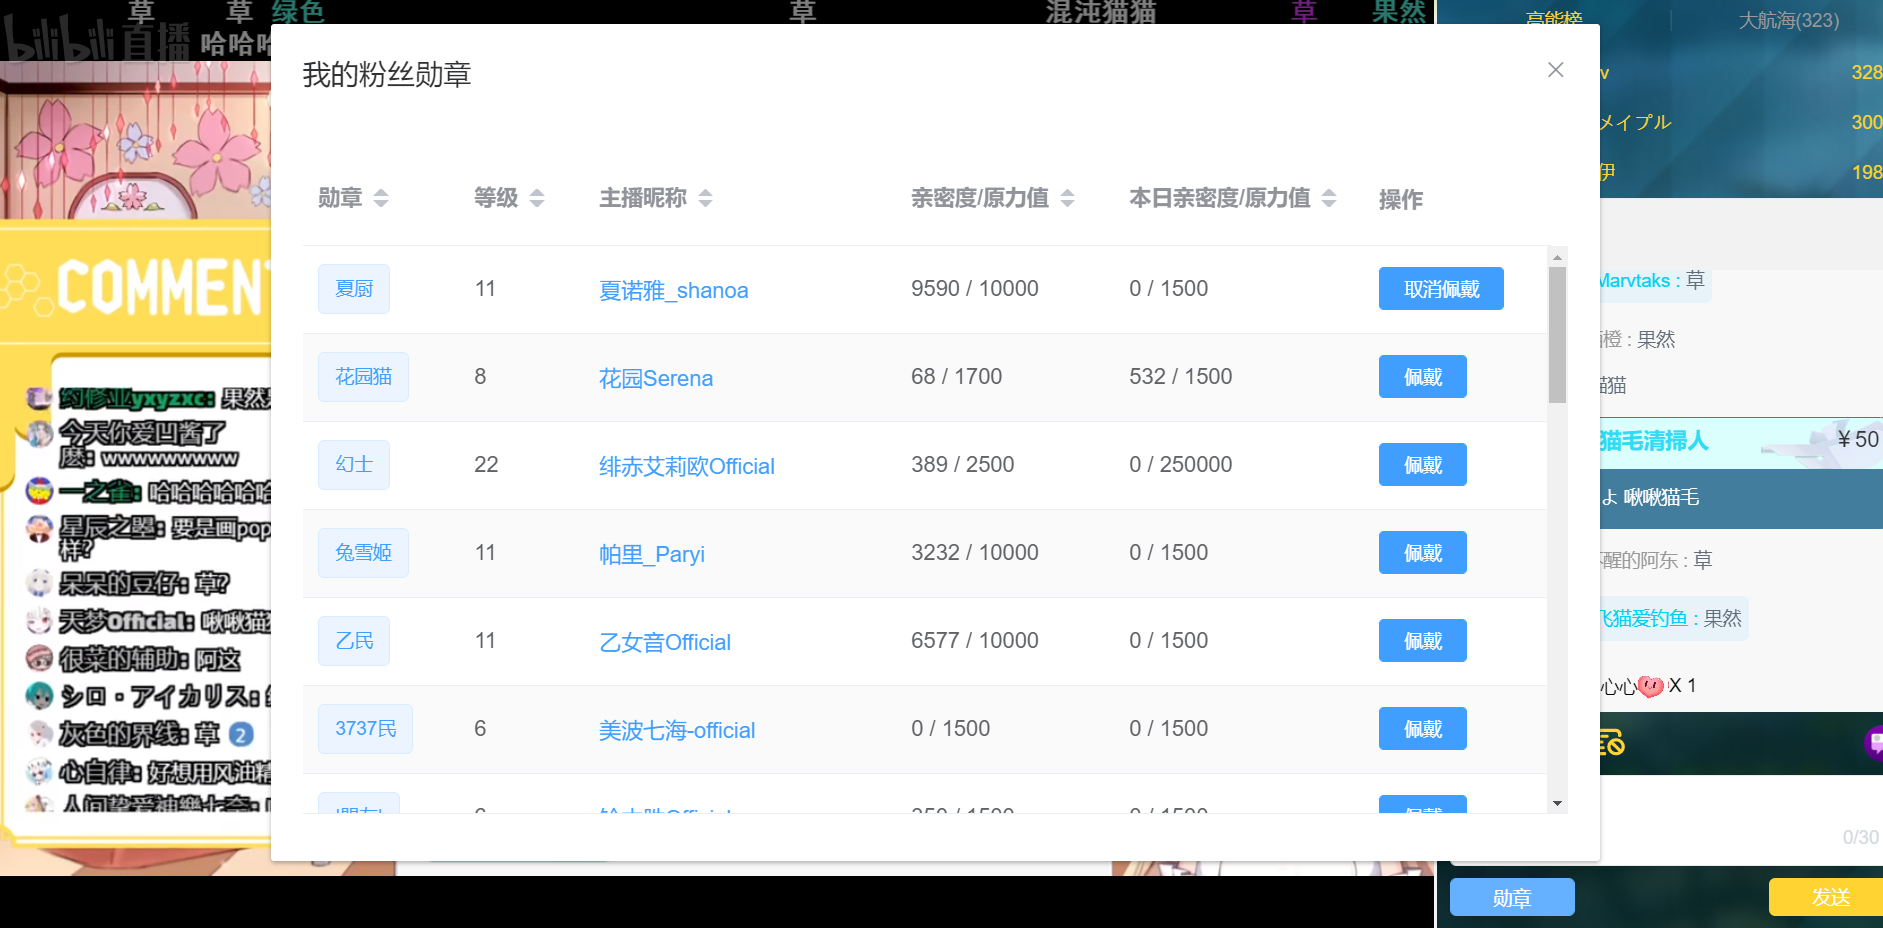
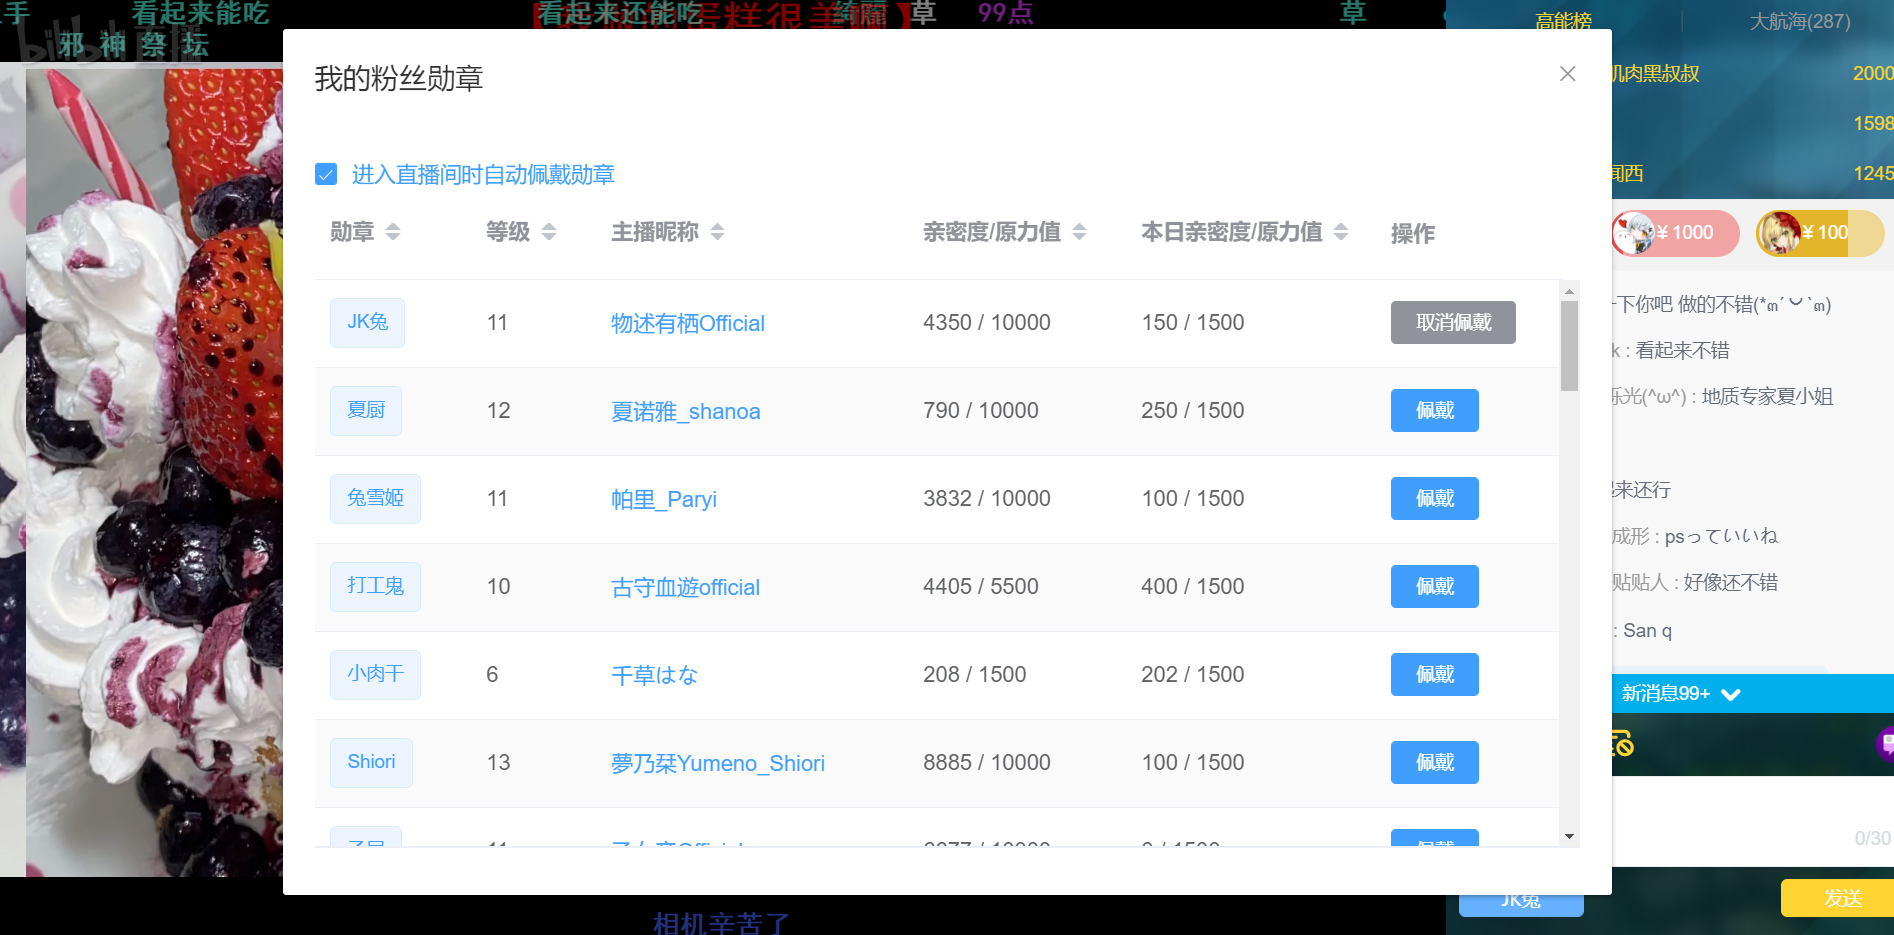
添加自动换牌子

diff --git a/blivemedal.user.js b/blivemedal.user.js
@@ -1,7 +1,7 @@
 // ==UserScript==
 // @name         blivemedal
 // @namespace    http://tampermonkey.net/
-// @version      0.2
+// @version      0.3
 // @description  拯救B站直播换牌子的用户体验
 // @author       xfgryujk
 // @include      /https?:\/\/live\.bilibili\.com\/?\??.*/
@@ -85,6 +85,8 @@
     if (store === null) {
       store = new Vuex.Store({
         state: {
+          config: loadConfig(),
+
           medals: [],
           curMedal: null
         },
@@ -94,6 +96,12 @@
           },
           setCurMedal(state, curMedal) {
             state.curMedal = curMedal
+          },
+          setConfigItems(state, config) {
+            for (let name in config) {
+              state.config[name] = config[name]
+            }
+            saveConfig(state.config)
           }
         },
         actions: {
@@ -107,6 +115,24 @@
       })
     }
     return store
+  }
+
+  function loadConfig() {
+    let config
+    try {
+      config = JSON.parse(window.localStorage.blivemedalConfig || '{}')
+    } catch {
+      config = {}
+    }
+
+    if (config.autoWearMedal === undefined) {
+      config.autoWearMedal = false
+    }
+    return config
+  }
+
+  function saveConfig(config) {
+    window.localStorage.blivemedalConfig = JSON.stringify(config)
   }
 
   function initUi() {
@@ -132,16 +158,29 @@
       `,
       computed: {
         ...Vuex.mapState({
+          config: state => state.config,
           curMedal: state => state.curMedal
         })
       },
-      created() {
+      async created() {
+        await this.tryAutoWearMedal()
         this.updateCurMedal()
       },
       methods: {
         ...Vuex.mapActions([
           'updateCurMedal'
         ]),
+        async tryAutoWearMedal() {
+          try {
+            if (this.config.autoWearMedal) {
+              let medalInfo = window.__NEPTUNE_IS_MY_WAIFU__.roomInfoRes.data.anchor_info.medal_info
+              if (medalInfo !== null) {
+                await wearMedal(medalInfo.medal_id)
+              }
+            }
+          } catch {
+          }
+        },
         showMedalDialog() {
           this.$refs.medalDialog.showDialog()
         }
@@ -153,6 +192,8 @@
     name: 'MedalDialog',
     template: `
       <el-dialog :visible.sync="dialogVisible" title="我的粉丝勋章" top="60px" width="850px" :modal="false">
+        <el-checkbox label="进入直播间时自动佩戴勋章" :value="config.autoWearMedal" @change="onAutoWearMedalChange"></el-checkbox>
+
         <el-table :data="sortedMedals" stripe height="70vh">
           <el-table-column label="勋章" prop="medal_name" width="100" sortable
             :sort-method="(a, b) => a.medal_name.localeCompare(b.medal_name)"
@@ -199,18 +240,25 @@
     },
     computed: {
       ...Vuex.mapState({
+        config: state => state.config,
         medals: state => state.medals,
         curMedal: state => state.curMedal
       }),
       sortedMedals() {
-        const CUR_ROOM_ID = window.__NEPTUNE_IS_MY_WAIFU__.roomInfoRes.data.room_info.room_id
+        let curRoomId
+        try {
+          curRoomId = window.__NEPTUNE_IS_MY_WAIFU__.roomInfoRes.data.room_info.room_id
+        } catch {
+          curRoomId = 0
+        }
+
         let curMedal = []
         let curRoomMedal = []
         let medals = []
         for (let medal of this.medals) {
           if (this.curMedal !== null && medal.medal_id === this.curMedal.medal_id) {
             curMedal.push(medal)
-          } else if (medal.roomid === CUR_ROOM_ID) {
+          } else if (medal.roomid === curRoomId) {
             curRoomMedal.push(medal)
           } else {
             medals.push(medal)
@@ -222,6 +270,9 @@
       }
     },
     methods: {
+      ...Vuex.mapMutations([
+        'setConfigItems'
+      ]),
       ...Vuex.mapActions({
         doUpdateMedals: 'updateMedals',
         doUpdateCurMedal: 'updateCurMedal'
@@ -230,6 +281,11 @@
         this.updateMedals()
         this.updateCurMedal()
         this.dialogVisible = true
+      },
+      onAutoWearMedalChange(value) {
+        this.setConfigItems({
+          autoWearMedal: value
+        })
       },
       async updateMedals() {
         try {

diff --git a/README.md b/README.md
@@ -7,6 +7,7 @@
 ![截图1](https://github.com/xfgryujk/blivemedal/blob/master/screenshots/1.png)
 
 ## 特性
-* 把原来的丑B勋章按钮改好看了
+* 把原来的丑B牌子按钮改好看了
+* 支持自动换牌子
 * 在直播间页面列出所有牌子，而不是只有3个
 * 把当前牌子和当前直播间牌子排在前面，后面的牌子按上次佩戴时间排序，而不是乱序
